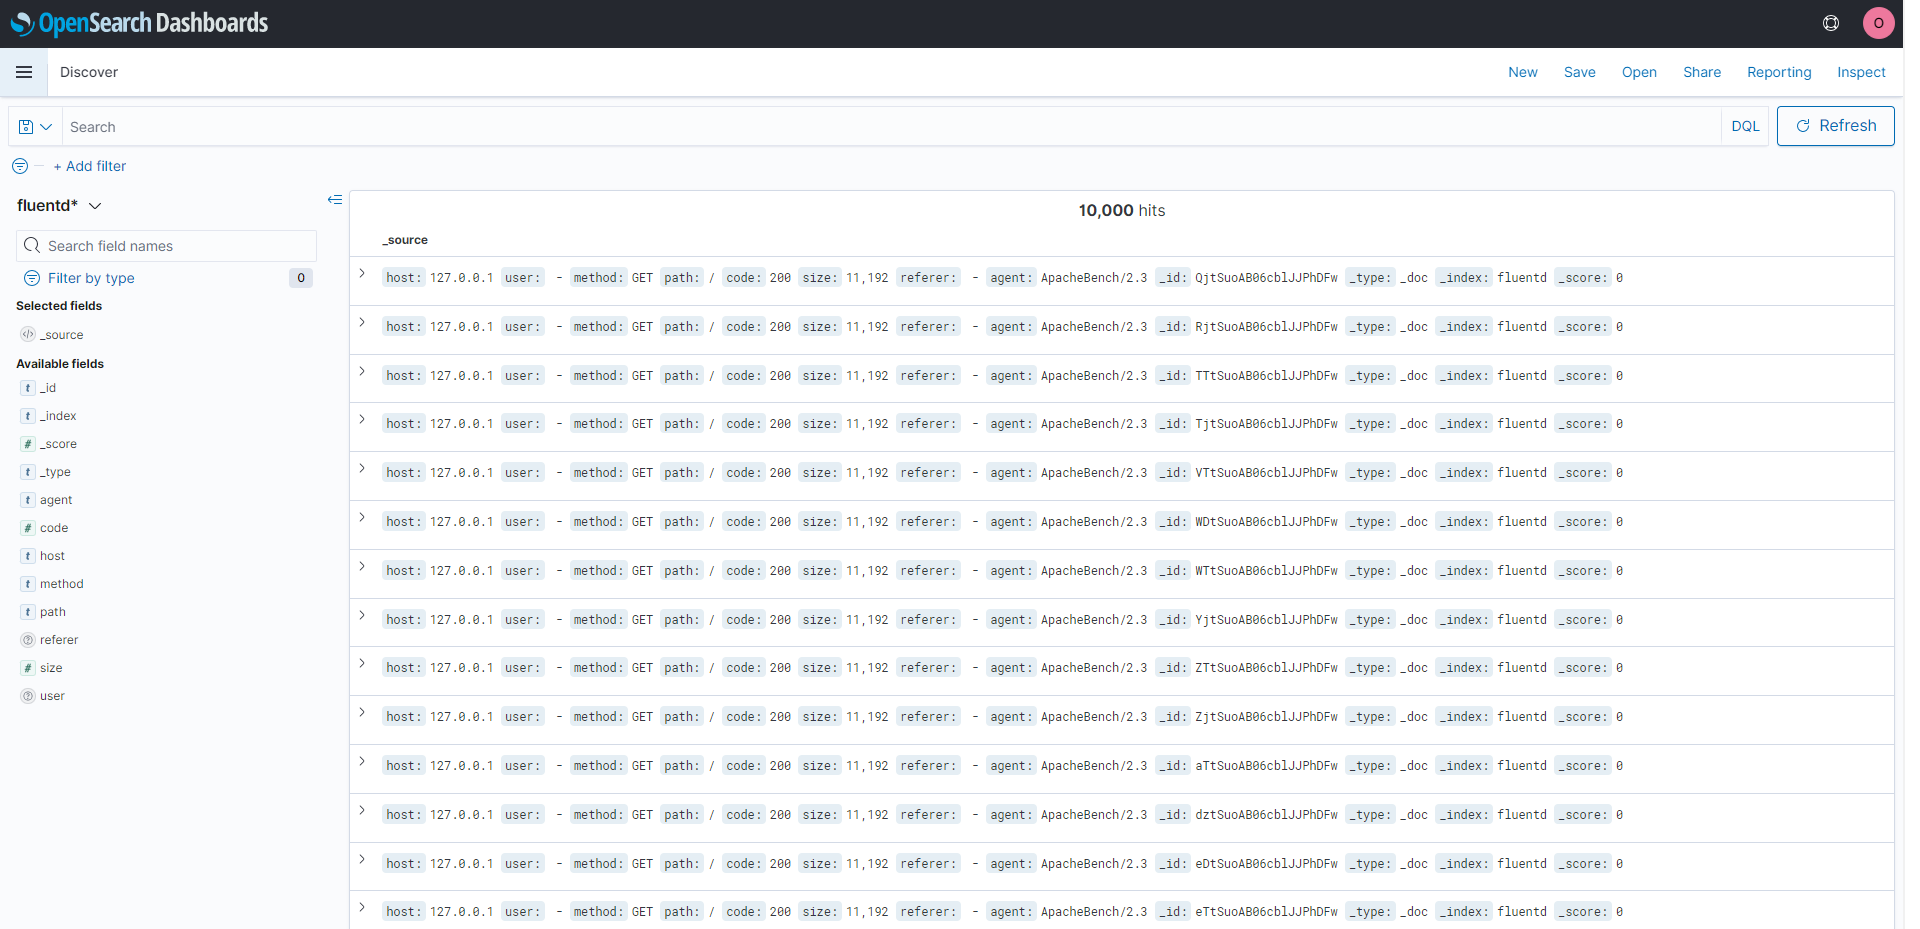
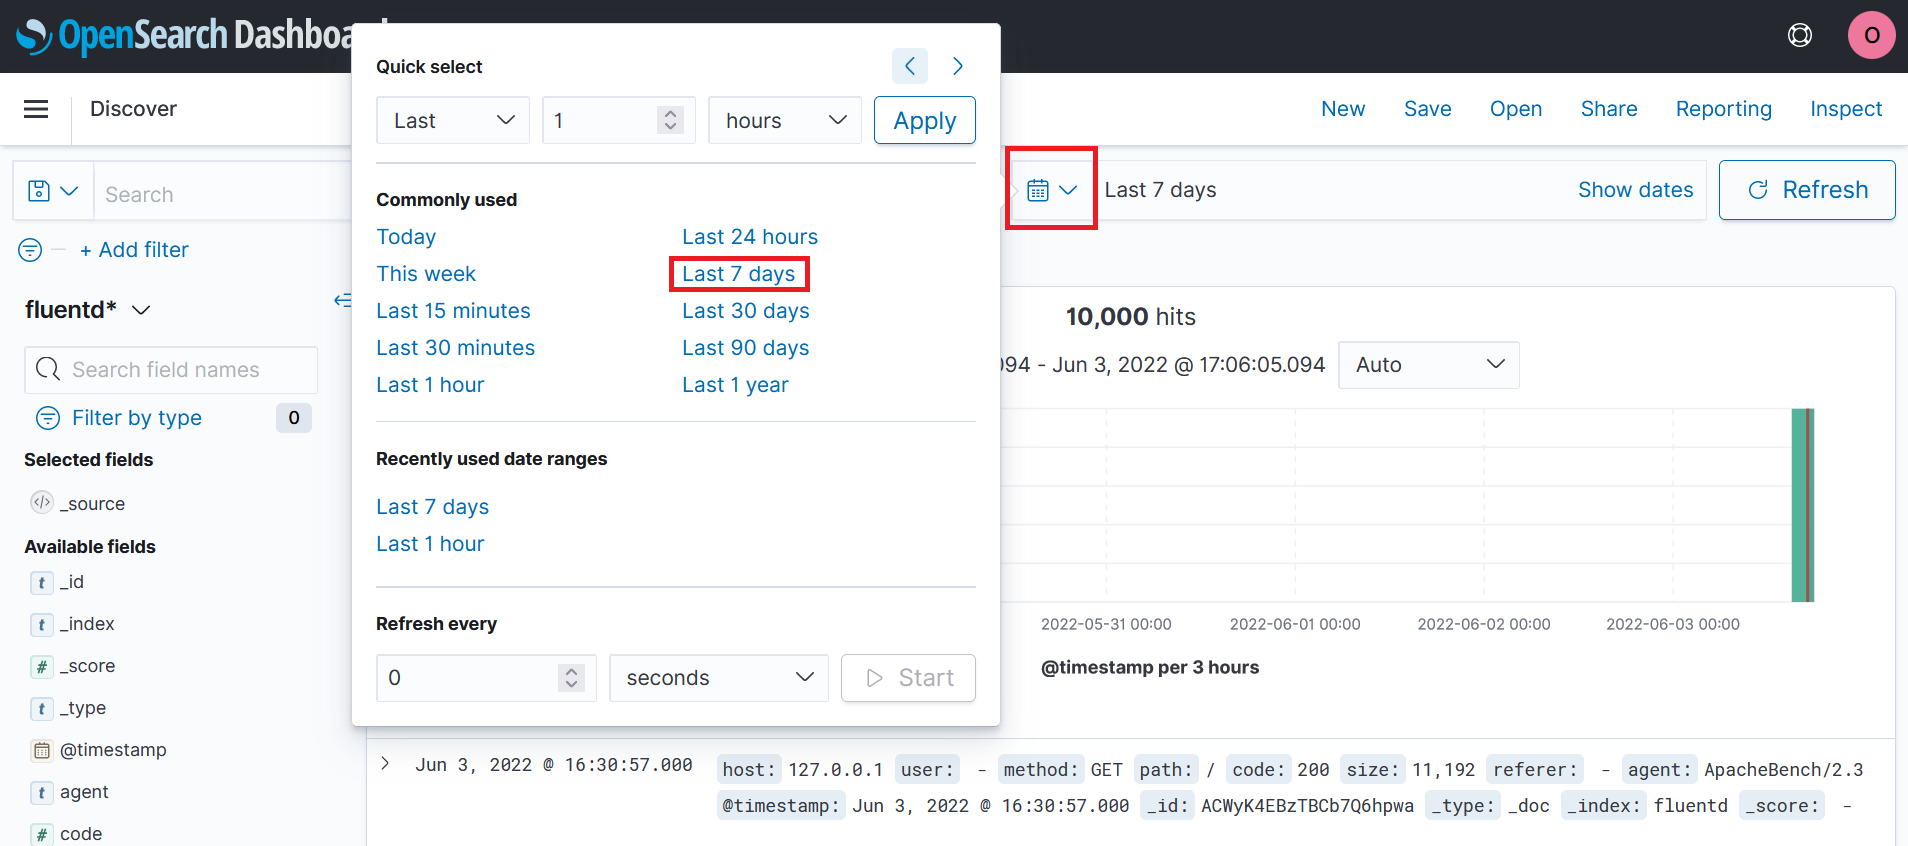
updated the search logs section

diff --git a/workshop/public/open-search-fluentd/4_search_logs.html b/workshop/public/open-search-fluentd/4_search_logs.html
@@ -969,9 +969,13 @@
 <p><img src="../images/open-search-log-analytics/va_3.PNG" alt="create_index_pattern_1"></p>
 <ol start="4">
 <li>Enter <code>fluentd*</code> under the index pattern name section</li>
-<li>Click on <strong>Next step</strong></li>
 </ol>
 <p><img src="../images/open-search-fluentd/search_logs_7.png" alt="search_logs_7.png"></p>
+<ol start="5">
+<li>Click on <strong>Next step</strong></li>
+<li>Click on the time field drop down and select <strong>@timestamp</strong></li>
+</ol>
+<p><img src="../images/open-search-fluentd/search_logs_8.png" alt="search_logs_7.png"></p>
 <ol start="6">
 <li>Click on <strong>Create index pattern</strong></li>
 </ol>
@@ -982,12 +986,16 @@
 <li>In the OpenSearch Dashboard expand the side menu and click on <strong>Discover</strong> under the OpenSearch Dashboards section</li>
 </ol>
 <p><img src="../images/open-search-log-analytics/search_1.PNG" alt="search_1"></p>
-<p>This will bring you to the discovery page. You can now see the sample logs Fluentd sent to OpenSearch</p>
+<ol start="2">
+<li>Expand the time range that OpenSearch will view to the <strong>Last 7 days</strong></li>
+</ol>
 <p><img src="../images/open-search-fluentd/search_logs_9.png" alt="search_logs_9.png"></p>
-<p>You can expand any of the logs to view all of the available fields</p>
+<p>You can now see the logs sent to OpenSearch from Fluentd</p>
 <p><img src="../images/open-search-fluentd/search_logs_10.png" alt="search_logs_10"></p>
-<p>You can also search logs using the search bar at the top of the page</p>
+<p>You can expand any of the logs to view all of the available fields</p>
 <p><img src="../images/open-search-fluentd/search_logs_11.png" alt="search_logs_10"></p>
+<p>You can also search logs using the search bar at the top of the page</p>
+<p><img src="../images/open-search-fluentd/search_logs_12.png" alt="search_logs_10"></p>
 <p>When you are ready proceed to the next step <a href="../open-search-fluentd/5_clean_up.html">Clean Up</a> if you want to delete the resources you used for this workshop</p>
 
 

diff --git a/workshop/content/open-search-fluentd/4_Search_Logs/_index.en.md b/workshop/content/open-search-fluentd/4_Search_Logs/_index.en.md
@@ -44,9 +44,13 @@ In order to search our logs via. the OpenSearch dashboard you need to create an 
 ![create_index_pattern_1](/images/open-search-log-analytics/va_3.PNG)
 
 4. Enter ```fluentd*``` under the index pattern name section
-5. Click on **Next step**
 
 ![search_logs_7.png](/images/open-search-fluentd/search_logs_7.png)
+
+5. Click on **Next step**
+6. Click on the time field drop down and select **@timestamp**
+
+![search_logs_7.png](/images/open-search-fluentd/search_logs_8.png)
 
 6. Click on **Create index pattern**
 
@@ -60,16 +64,20 @@ OpenSearch provides the ability to easily search log data. Let's view and search
 
 ![search_1](/images/open-search-log-analytics/search_1.PNG)
 
-This will bring you to the discovery page. You can now see the sample logs Fluentd sent to OpenSearch
+2. Expand the time range that OpenSearch will view to the **Last 7 days**
 
 ![search_logs_9.png](/images/open-search-fluentd/search_logs_9.png)
 
-You can expand any of the logs to view all of the available fields
+You can now see the logs sent to OpenSearch from Fluentd
 
 ![search_logs_10](/images/open-search-fluentd/search_logs_10.png)
 
-You can also search logs using the search bar at the top of the page
+You can expand any of the logs to view all of the available fields
 
 ![search_logs_10](/images/open-search-fluentd/search_logs_11.png)
+
+You can also search logs using the search bar at the top of the page
+
+![search_logs_10](/images/open-search-fluentd/search_logs_12.png)
 
 When you are ready proceed to the next step [Clean Up]({{<relref "../5_Clean_Up/">}}) if you want to delete the resources you used for this workshop
